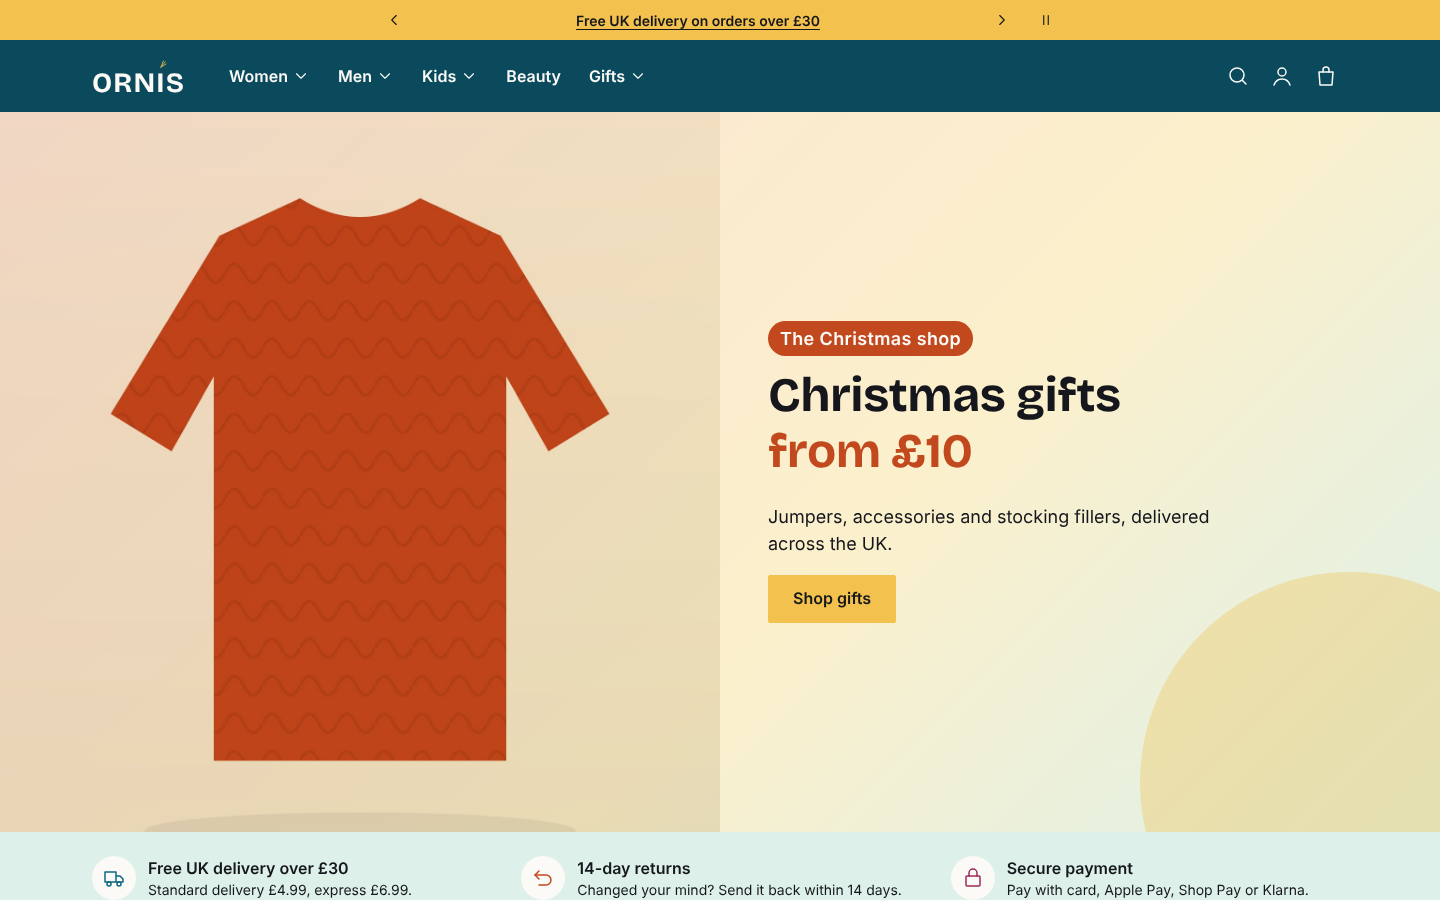
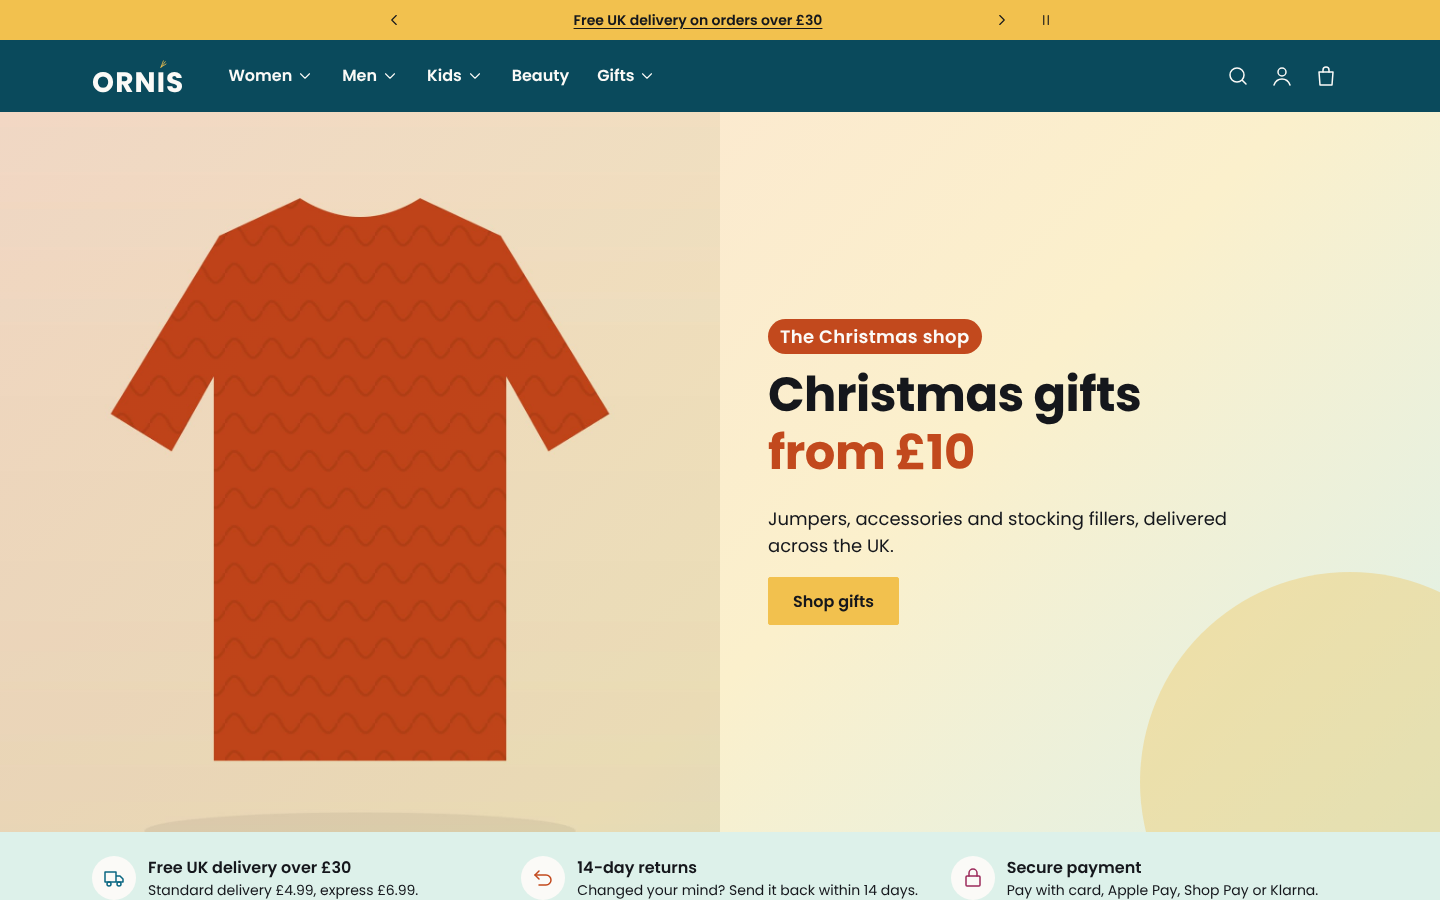
Switch to Poppins for headings and body (Shopify font library)
Heading and body fonts are now theme settings (font pickers), defaulting to Poppins;
Montserrat or Helvetica can be chosen in Theme settings > Typography. Removes the
self-hosted Bricolage Grotesque files. Theme Check clean; 92 e2e tests pass.

Claude-Session: https://claude.ai/code/session_01DeacWXoWn9bGQYXVPzxuUJ

diff --git a/tools/preview/server.ts b/tools/preview/server.ts
@@ -55,8 +55,10 @@ engine.registerFilter('preload_tag', (url: string, ...args: unknown[]) => {
   const n = named(args);
   return `<link rel="preload" href="${url}" as="${n.as}"${n.type ? ` type="${n.type}"` : ''}${n.crossorigin ? ' crossorigin="anonymous"' : ''}>`;
 });
-engine.registerFilter('font_face', () => '');
-engine.registerFilter('font_modify', (f: unknown) => f);
+const fontFile = (f: any) => `/preview-fonts/${String(f?.family ?? 'Poppins').toLowerCase()}-latin-${f?.weight ?? 400}-normal.woff2`;
+engine.registerFilter('font_face', (f: any) => `@font-face { font-family: ${f.family}; font-weight: ${f.weight}; font-style: normal; font-display: swap; src: url('${fontFile(f)}') format('woff2'); }`);
+engine.registerFilter('font_url', (f: any) => fontFile(f));
+engine.registerFilter('font_modify', (f: any, prop: string, value: string) => (prop === 'weight' ? { ...f, weight: Number(value) } : f));
 engine.registerFilter('color_modify', (hex: string, _p: string, a: number) => {
   const n = parseInt(String(hex).slice(1), 16);
   return `rgba(${(n >> 16) & 255}, ${(n >> 8) & 255}, ${n & 255}, ${a})`;
@@ -347,7 +349,9 @@ function buildData(): Data {
 function defaultSettings() {
   const s: Record<string, unknown> = {};
   for (const group of settingsSchema) for (const def of group.settings ?? []) if (def.id) s[def.id] = def.default ?? null;
-  s.type_body_font = { family: 'Inter', fallback_families: "system-ui, -apple-system, 'Segoe UI', Roboto, Arial, sans-serif", weight: 400 };
+  // Stand-ins for Shopify's font library objects; the files are served from @fontsource/poppins.
+  s.type_heading_font = { family: 'Poppins', fallback_families: "'Helvetica Neue', Helvetica, Arial, sans-serif", weight: 700 };
+  s.type_body_font = { family: 'Poppins', fallback_families: "'Helvetica Neue', Helvetica, Arial, sans-serif", weight: 400 };
   // Preview only: sample Christmas date so the cut-off block can be checked visually.
   s.christmas_standard_cutoff = 'Thursday 17 December';
   return s;
@@ -529,6 +533,11 @@ const server = http.createServer(async (req, res) => {
       const ext = path.extname(file);
       const types: Record<string, string> = { '.css': 'text/css', '.js': 'text/javascript', '.svg': 'image/svg+xml', '.woff2': 'font/woff2', '.png': 'image/png', '.jpg': 'image/jpeg' };
       return send(200, fs.readFileSync(file), types[ext] ?? 'application/octet-stream');
+    }
+    if (url.pathname.startsWith('/preview-fonts/')) {
+      const file = path.resolve('node_modules/@fontsource/poppins/files', path.basename(url.pathname));
+      if (!fs.existsSync(file)) return send(404, 'not found', 'text/plain');
+      return send(200, fs.readFileSync(file), 'font/woff2');
     }
     if (url.pathname.startsWith('/preview-img/')) {
       const name = path.basename(url.pathname, '.jpg');

diff --git a/theme/assets/base.css b/theme/assets/base.css
@@ -25,8 +25,8 @@ th, td { text-align: left; padding: 8px; border-bottom: 1px solid var(--color-bo
 
 h1, h2, h3, h4, .h1, .h2, .h3 {
   font-family: var(--font-heading);
-  font-weight: 700;
-  line-height: 1.15;
+  font-weight: var(--font-heading-weight, 700);
+  line-height: 1.2;
   margin: 0 0 0.5em;
   letter-spacing: -0.01em;
 }

diff --git a/CHANGELOG.md b/CHANGELOG.md
@@ -4,6 +4,9 @@ Theme releases are tagged in Git (`v2.0.0` upward). Store schema changes bump `S
 
 ## Unreleased: 2.0.0 (milestones 1 to 3, built before store access)
 
+### Font change (operator request)
+- Poppins for headings and body, from Shopify's font library (no self-hosted font files). Montserrat or Helvetica can be picked in Theme settings > Typography.
+
 ### Colour refresh (operator request: "add life and colour")
 - New palette, all editable in Theme settings > Colours and all WCAG AA: Deep teal header and footer, Kingfisher buttons,
   Marigold announcement bar, highlight buttons and heading underlines, Coral labels and New badges, Berry low-stock badges,
@@ -13,7 +16,7 @@ Theme releases are tagged in Git (`v2.0.0` upward). Store schema changes bump `S
 - Every product row, editorial and hero section has a background or button colour choice in the theme editor.
 
 ### Theme
-- New Ornis 2.0 theme on Online Store 2.0: "Plumage" design system (colour and type tokens as theme settings, Bricolage Grotesque headings self-hosted, Inter body), ORNIS wordmark with feather, and favicon.
+- New Ornis 2.0 theme on Online Store 2.0: "Plumage" design system (colour and type tokens as theme settings, Poppins for headings and body from Shopify's font library), ORNIS wordmark with feather, and favicon.
 - Global: announcement bar (pausable, at least 6 s per message), sticky header with mega menu and full-screen mobile menu, predictive search (keyboard combobox), cart drawer with free-delivery progress, footer with three menus, newsletter, social and payment icons, business details, and cookie preferences link.
 - Home: hero (LCP image preloaded), trust strip, category tiles, New in, editorial, gift finder, Picked for you, verified reviews (hidden under 5), About line, newsletter.
 - Collection and search: filters (sidebar and drawer), active filter chips, sort, product cards with second image, swatches, quick add, honest badges, Load more that keeps the URL.

diff --git a/docs/STORE_SETUP_CHECKLIST.md b/docs/STORE_SETUP_CHECKLIST.md
@@ -28,7 +28,7 @@ Some settings can only be changed by a person in the Shopify admin. **S** means 
 
 - [ ] M: Settings > Customer accounts: new customer accounts (sign-in by email code), optional at checkout.
 - [ ] M: Settings > Checkout: email marketing consent box unticked by default, SMS off, address autocomplete on, company name hidden, phone optional.
-- [ ] M: Settings > Checkout > Customise: logo, Ink #15171C buttons, Paper #FBFAF7 background, Kingfisher #0B6782 accents, Inter body font.
+- [ ] M: Settings > Checkout > Customise: logo, Kingfisher #0B6782 buttons, Paper #FBFAF7 background, Deep teal #0A4A5C header, Marigold #F2C14E accents, Poppins font.
 - [ ] M: Settings > Checkout > Order status page additional scripts: none. Add the note "Items may arrive in separate parcels" to the order status page through the checkout editor's text block.
 
 ## 4. Taxes and duties
